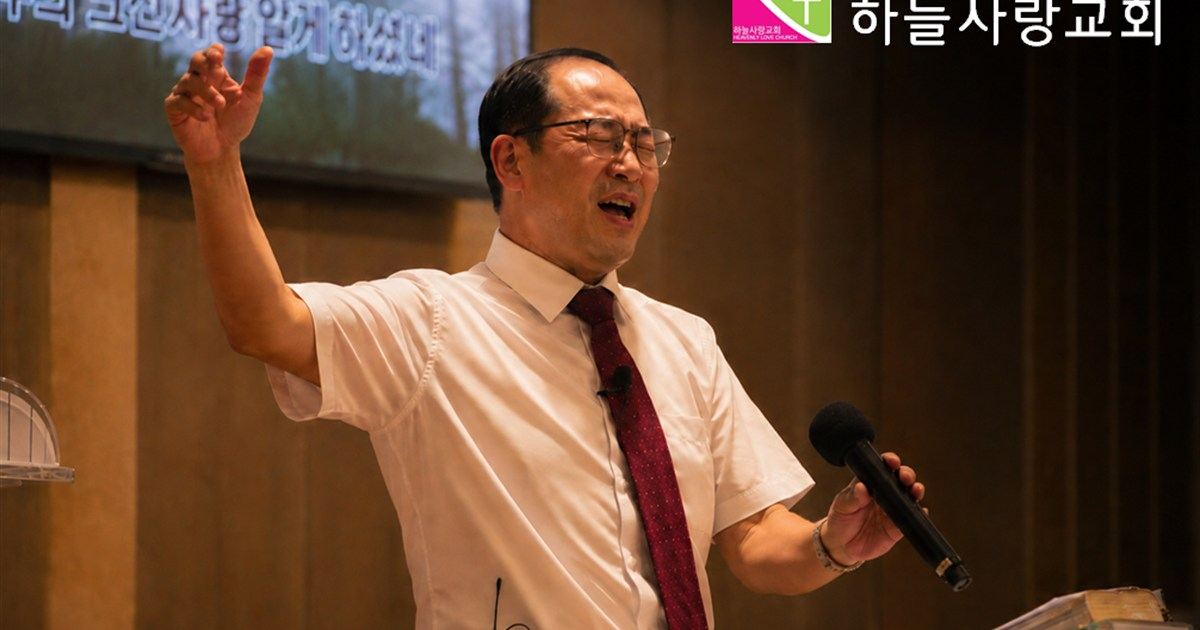
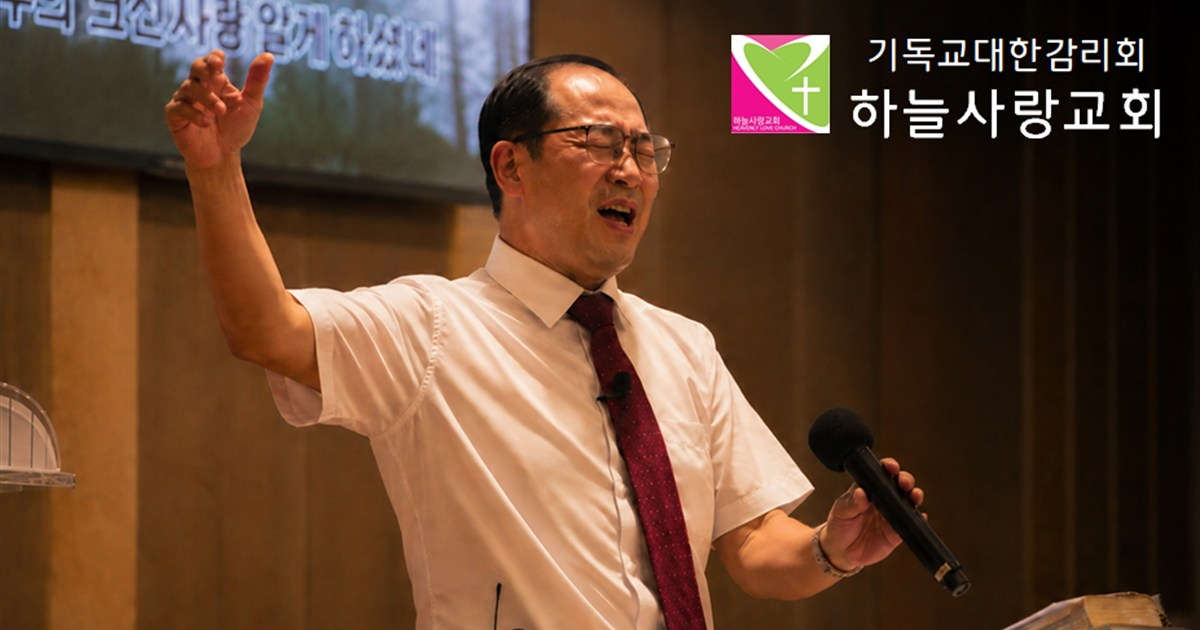
Update SNS link preview image for sharing.

diff --git a/index.html b/index.html
@@ -24,8 +24,8 @@
     <meta property="og:title" content="하늘사랑교회" />
     <meta property="og:description" content="하나님을 만나 사람이 행복한 교회" />
     <meta property="og:url" content="https://www.hlckm.co.kr/" />
-    <meta property="og:image" content="https://www.hlckm.co.kr/og-image.jpg?v=20260718" />
-    <meta property="og:image:secure_url" content="https://www.hlckm.co.kr/og-image.jpg?v=20260718" />
+    <meta property="og:image" content="https://www.hlckm.co.kr/og-image.jpg?v=20260718b" />
+    <meta property="og:image:secure_url" content="https://www.hlckm.co.kr/og-image.jpg?v=20260718b" />
     <meta property="og:image:type" content="image/jpeg" />
     <meta property="og:image:width" content="1200" />
     <meta property="og:image:height" content="630" />
@@ -34,7 +34,7 @@
     <meta name="twitter:card" content="summary_large_image" />
     <meta name="twitter:title" content="하늘사랑교회" />
     <meta name="twitter:description" content="하나님을 만나 사람이 행복한 교회" />
-    <meta name="twitter:image" content="https://www.hlckm.co.kr/og-image.jpg?v=20260718" />
+    <meta name="twitter:image" content="https://www.hlckm.co.kr/og-image.jpg?v=20260718b" />
     <meta name="twitter:image:alt" content="하늘사랑교회" />
 
     <link rel="icon" type="image/png" href="/favicon.png" />
